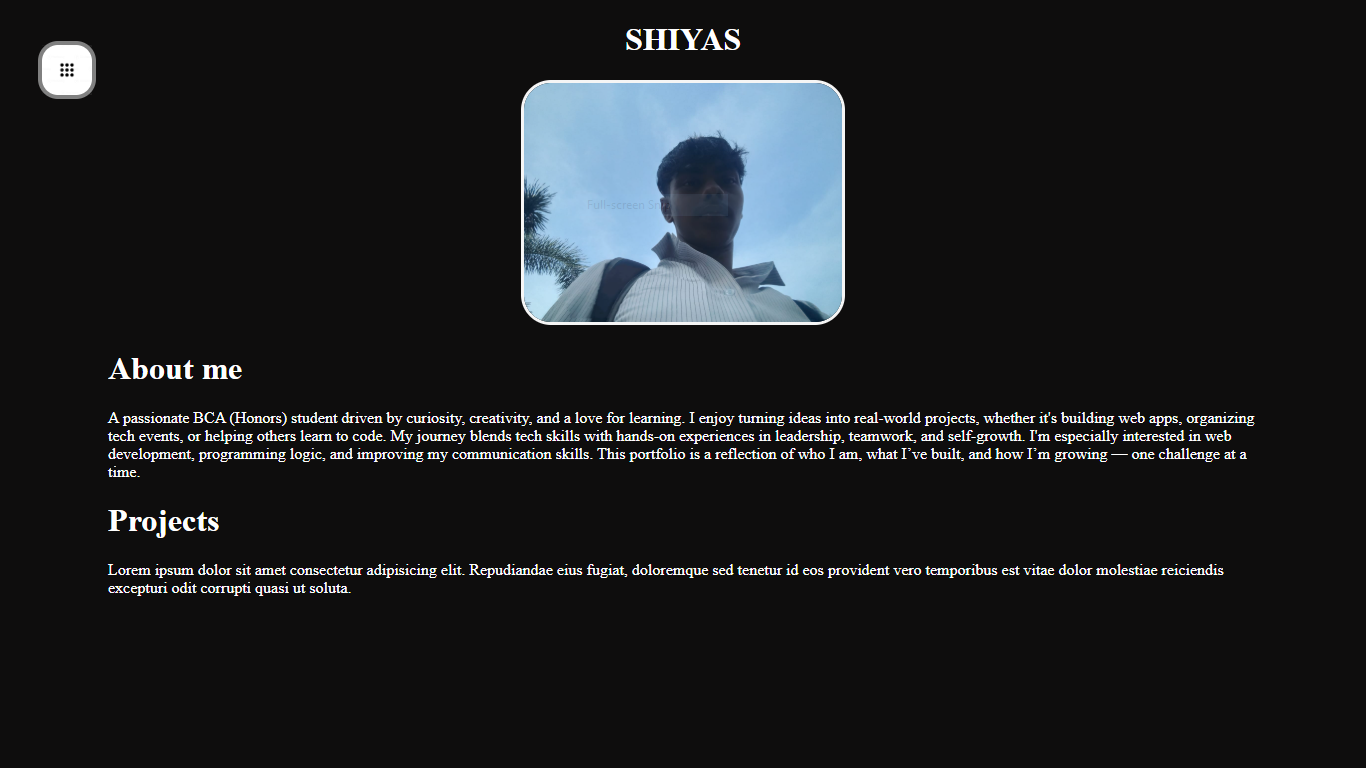
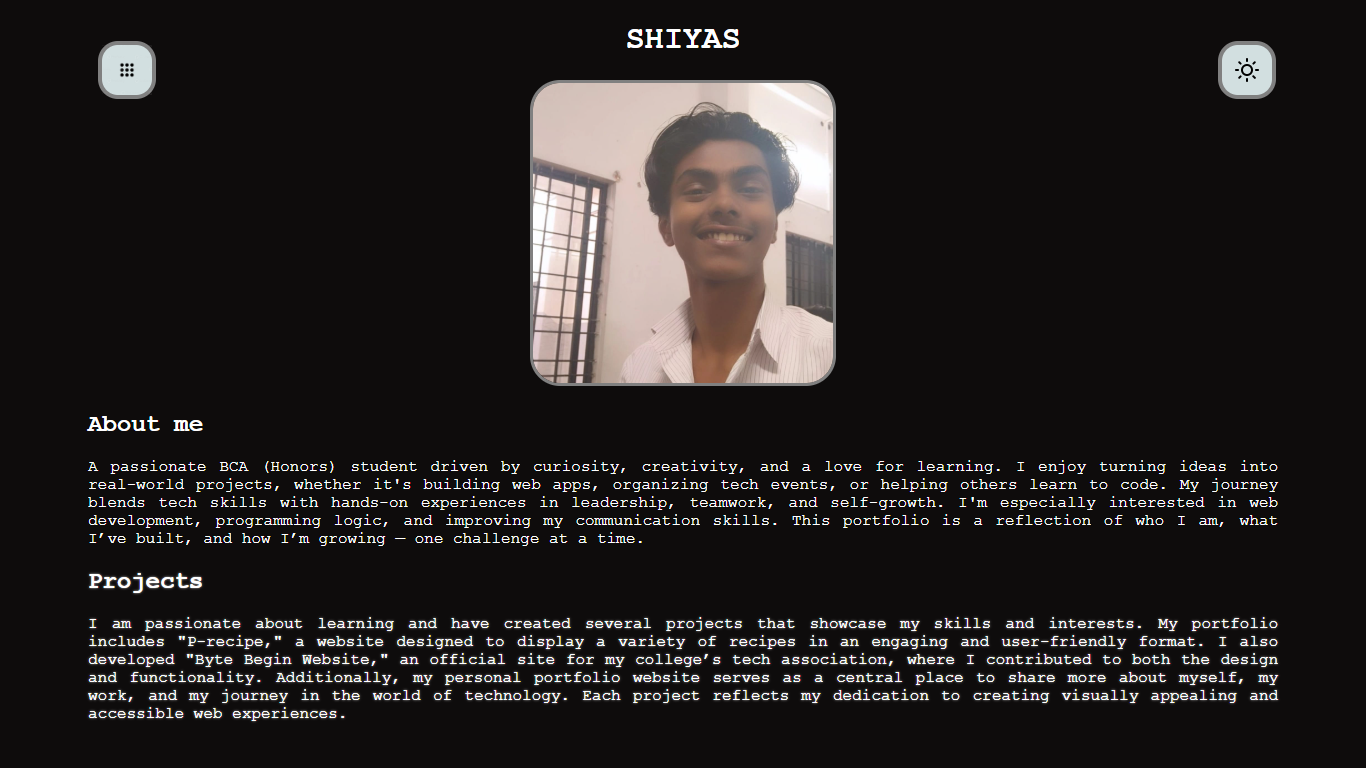
Settuped readme with github copilot Removed unwanted files

diff --git a/README.md b/README.md
@@ -32,9 +32,13 @@ My journey blends tech skills with hands-on experiences in leadership, teamwork,
 
 ---
 
-## 📸 Preview
+## 📸 Preview Darkmode
 
-![Portfolio Preview](images/shiyaaa.jpeg)
+![Portfolio Preview](images/preview.png)
+
+## 📸 Preview Lightmode
+
+![Portfolio Preview](images/previewL.png)
 
 ---
 
